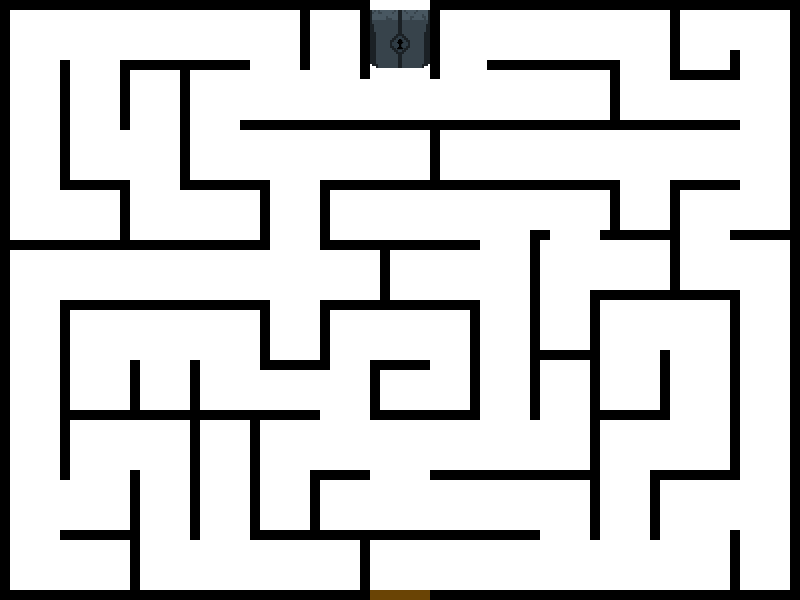
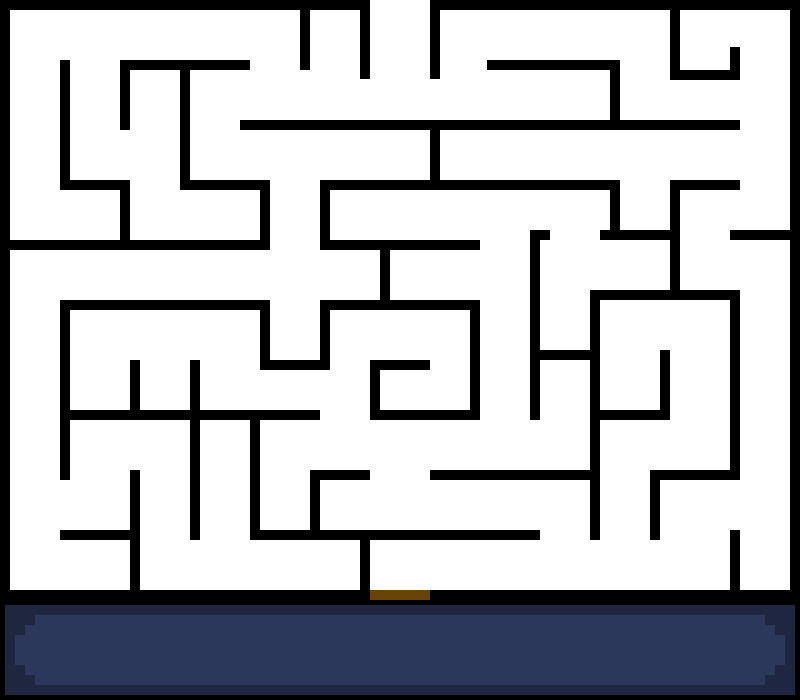
Adicinar sprites
-sprites do menu
-redimensionamento da tela
-HUD

diff --git a/source/Main.py b/source/Main.py
@@ -19,7 +19,7 @@ class Main:
         pg.init()
 
         # cria a tela
-        self.tela = Tela(800, 600, coresRGB["branco"])
+        self.tela = Tela(800, 700, coresRGB["branco"])
         self.superficie = self.tela.criar_tela()
 
         self.clock = pg.time.Clock()
@@ -65,23 +65,24 @@ class Main:
         botao = pg.font.SysFont(None, 60)
         # botão iniciar
         botao_iniciar = botao.render(
-            "Iniciar", True, coresRGB["branco"], coresRGB["vermelho"])
+            "Iniciar", True, coresRGB["branco"])
         iniciar_rect = botao_iniciar.get_rect()
         iniciar_rect.topleft = (self.superficie.get_width() / 2 - iniciar_rect.width / 2,
                                 250)
-        iniciar_selecao = pg.Rect(iniciar_rect.x - 25, iniciar_rect.y - 10,
-                                  iniciar_rect.width + 50, iniciar_rect.height + 20)
+        selecao = pg.Surface(
+            (iniciar_rect.width + 50, iniciar_rect.height + 20))
+        selecao.set_alpha(128)
+        selecao.fill(coresRGB["preto"])
 
         # botão historia
         botao_historia = botao.render(
-            "Historia", True, coresRGB["branco"], coresRGB["vermelho"])
+            "Historia", True, coresRGB["branco"])
         historia_rect = botao_historia.get_rect()
         historia_rect.topleft = (self.superficie.get_width() / 2 - historia_rect.width / 2,
                                  330)
-        historia_selecao = pg.Rect(iniciar_rect.x - 25, historia_rect.y - 10,
-                                   iniciar_rect.width + 50, iniciar_rect.height + 20)
 
-        def interagir_botao(retangulo: pg.Rect, botao: pg.Surface, fonte: pg.font.Font, selecao: pg.Rect, texto: str) -> bool:
+        def interagir_botao(retangulo: pg.Rect, botao: pg.Surface, fonte: pg.font.Font,
+                            selecao: pg.Surface, texto: str) -> bool:
             """verifica se o mouse está sobre o botão e se ele foi clicado"""
 
             # armazena a posição do mouse
@@ -89,33 +90,33 @@ class Main:
 
             # verifica mouse hover e desenha o botão com o fundo
             if retangulo.collidepoint(mouse_pos):
-                pg.draw.rect(self.superficie,
-                             coresRGB["preto"], selecao)
+                self.superficie.blit(
+                    selecao, (iniciar_rect.x - 25, retangulo.y - 10))
                 botao = fonte.render(
-                    texto, True, coresRGB["branco"], coresRGB["preto"])
+                    texto, True, coresRGB["branco"])
                 self.superficie.blit(botao, retangulo)
                 return True
 
             else:
-                pg.draw.rect(self.superficie,
-                             coresRGB["vermelho"], selecao)
                 botao = fonte.render(
-                    texto, True, coresRGB["branco"], coresRGB["vermelho"])
+                    texto, True, coresRGB["branco"])
                 self.superficie.blit(botao, retangulo)
                 return False
 
         def tela_historia():
+
+            fundo = pg.image.load('assets/imagens/fundo_menu.png')
             # textos
             # titulo
             titulo = pg.font.SysFont(None, 100)
             objeto_titulo = titulo.render(
-                "Historia", True, coresRGB["branco"], coresRGB["vermelho"])
+                "Historia", True, coresRGB["branco"])
             titulo_rect = objeto_titulo.get_rect()
             titulo_rect.topleft = (self.superficie.get_width() / 2 - titulo_rect.width / 2,
                                    70)
 
             # historia
-            historia = pg.font.SysFont("arial", 20)
+            historia = pg.font.SysFont(None, 35)
 
             linhas_historia = []
             with open('assets/textos/historia.txt') as file:
@@ -124,15 +125,30 @@ class Main:
             file.close()
 
             obj_linhas_historia = {}
-            for i in range(8):
+            linhas_x = []
+            linhas_y = []
+            linhas_tamanho = []
+            linhas_altura = []
+            for i in range(len(linhas_historia)):
                 texto_linha = linhas_historia[i]
                 objeto_linha = historia.render(
-                    texto_linha, True, coresRGB["branco"], coresRGB["vermelho"])
+                    texto_linha, True, coresRGB["branco"])
                 linha_rect = objeto_linha.get_rect()
                 linha_rect.topleft = (self.superficie.get_width() / 2 - linha_rect.width / 2,
-                                      200 + 25 * i)
+                                      170 + 28 * i)
+
+                linhas_x.append(linha_rect.x)
+                linhas_y.append(linha_rect.y)
+                linhas_tamanho.append(linha_rect.width)
+                linhas_altura.append(linha_rect.height)
 
                 obj_linhas_historia[objeto_linha] = linha_rect
+
+            fundo_historia = pg.Surface(
+                (max(linhas_tamanho) + 10, max(linhas_altura) * (len(linhas_historia) + 1) + 10))
+            fundo_historia.set_alpha(128)
+            fundo_historia.fill(coresRGB["preto"])
+            fundo_historia_topleft = (min(linhas_x) - 5, min(linhas_y) - 5)
 
             while self.historia:
                 for evento in pg.event.get():
@@ -146,6 +162,10 @@ class Main:
 
                 # desenha tudo na tela
                 self.superficie.fill(coresRGB["vermelho"])
+
+                self.superficie.blit(fundo, (0, 0))
+
+                self.superficie.blit(fundo_historia, fundo_historia_topleft)
 
                 self.superficie.blit(objeto_titulo, titulo_rect)
 
@@ -171,7 +191,7 @@ class Main:
                         except pygame.error:
                             self.com_som = False
 
-                        if interagir_botao(iniciar_rect, botao_iniciar, botao, iniciar_selecao, "Iniciar"):
+                        if interagir_botao(iniciar_rect, botao_iniciar, botao, selecao, "Iniciar"):
                             # toca o som do botão
                             if self.com_som:
                                 click.play()
@@ -179,7 +199,7 @@ class Main:
                             self.jogando = True
                             self.rodando = False
 
-                        elif interagir_botao(historia_rect, botao_historia, botao, historia_selecao, "Historia"):
+                        elif interagir_botao(historia_rect, botao_historia, botao, selecao, "Historia"):
                             # toca o som do botão
                             if self.com_som:
                                 click.play()
@@ -193,9 +213,9 @@ class Main:
 
             self.superficie.blit(objeto_titulo, titulo_rect)
             interagir_botao(iniciar_rect, botao_iniciar,
-                            botao, iniciar_selecao, "Iniciar")
+                            botao, selecao, "Iniciar")
             interagir_botao(historia_rect, botao_historia,
-                            botao, historia_selecao, "Historia")
+                            botao, selecao, "Historia")
 
             pg.display.flip()
             self.clock.tick(30)

diff --git a/source/Coletaveis.py b/source/Coletaveis.py
@@ -166,14 +166,14 @@ class ContadorColetaveis():
         moeda = moeda.subsurface((64, 0), (64, 64))
         moeda = pg.transform.scale(moeda, (96, 96))
         moedarect = moeda.get_rect()
-        moedarect.topright = (745, -15)
+        moedarect.topright = (745, 603)
         self.janela.blit(moeda, moedarect)
 
         # texto da moeda
         text_moedas = self.fonte.render(
             f'{Moeda.moedas_coletadas}', True, coresRGB['branco'])
         text_moedasRect = text_moedas.get_rect()
-        text_moedasRect.topright = (755, 20)
+        text_moedasRect.topright = (755, 638)
         self.janela.blit(text_moedas, text_moedasRect)
 
         # Mostrando a chave
@@ -181,12 +181,12 @@ class ContadorColetaveis():
             self.chave_opaca = pg.image.load(
                 "assets/Coletaveis/chave_opaca.png")
             self.chaverect = self.chave_opaca.get_rect()
-            self.chaverect.topright = (680, -15)
+            self.chaverect.topright = (680, 605)
             self.janela.blit(self.chave_opaca, self.chaverect)
 
         else:
             self.chave_transparente = pg.image.load(
                 "assets/Coletaveis/chave_transparente.png")
             self.chaverect = self.chave_transparente.get_rect()
-            self.chaverect.topright = (680, -15)
+            self.chaverect.topright = (680, 605)
             self.janela.blit(self.chave_transparente, self.chaverect)

diff --git a/source/Contador.py b/source/Contador.py
@@ -10,7 +10,7 @@ class Contador:
         relogio_imagem = relogio_imagem.subsurface((160*2, 0), (160, 160))
         self.relogio_imagem = pg.transform.scale(relogio_imagem, (64, 64))
         self.relogiorect = relogio_imagem.get_rect()
-        self.relogiorect.topleft = (5, 5)
+        self.relogiorect.topleft = (35, 623)
 
         self.cor = coresRGB["branco"]
         self.janela = janela
@@ -53,7 +53,7 @@ class Contador:
                     f'{minutos}:{segundos}', True, self.cor)
 
     def desenhar_contador(self):
-        self.janela.blit(self.texto, [70, 15])
+        self.janela.blit(self.texto, (100, 635))
         self.janela.blit(self.relogio_imagem, self.relogiorect)
 
     def update(self):

diff --git a/source/Labirinto.py b/source/Labirinto.py
@@ -5,10 +5,10 @@ from Cores import coresRGB
 class Labirinto:
     def __init__(self, image, mascara, tela) -> None:
         self.piso = pg.sprite.Sprite()
-        self.piso.image = pg.transform.scale(image, (800, 600))
+        self.piso.image = pg.transform.scale(image, (800, 700))
         self.piso.rect = self.piso.image.get_rect()
         self.parede = pg.sprite.Sprite()
-        self.parede.image = pg.transform.scale(mascara, (800, 600))
+        self.parede.image = pg.transform.scale(mascara, (800, 700))
         self.parede.rect = self.parede.image.get_rect()
         self.tela = tela
 
